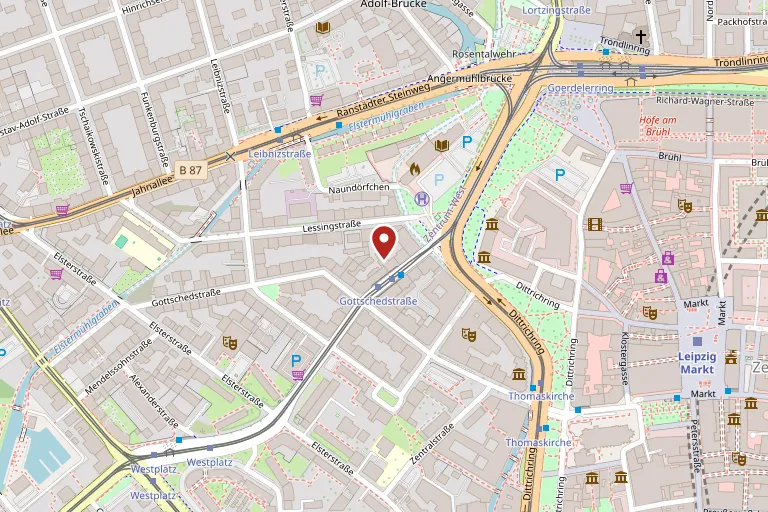
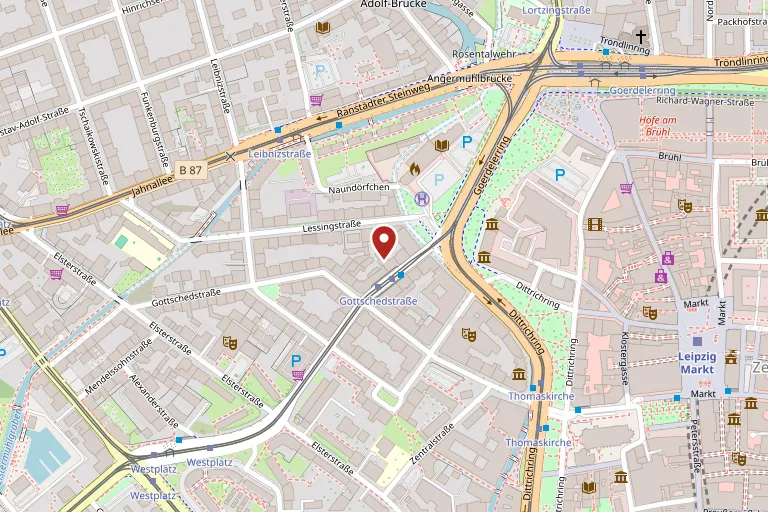
Museum in der Runden Ecke: oeffentliche Fuehrungen — Preis entfernt (Recherchekorrektur)
Die offizielle Seite (Abruf 30.07.2026, id=230) weist oeffentliche
Fuehrungen als "momentan nicht moeglich" aus; der zuvor genannte Festpreis
7,50 € / 6,00 € ist damit nicht mehr belegt. Ersetzt durch belegten Hinweis
(Gruppenfuehrungen nach Voranmeldung, aktuelle Konditionen beim Traeger),
QUELLEN.md und nichtBelegt entsprechend nachgezogen. Karte neu gerendert.

Pruefer check-site.mjs: GRUEN, Exit 0, 0 Verstoesse (axe-core WCAG 2.2 AA).

diff --git a/museum-in-der-runden-ecke-d9610d581fdb44aa/index.html b/museum-in-der-runden-ecke-d9610d581fdb44aa/index.html
@@ -354,7 +354,7 @@
       
       <li>Der Eintritt schließt den Audioguide ein.</li>
       
-      <li>Öffentliche Führungen: 7,50 € / ermäßigt 6,00 €.</li>
+      <li>Führungen für Gruppen sind nach Voranmeldung möglich; öffentliche Führungen sind derzeit nicht möglich. Die aktuellen Konditionen erfragen Sie bitte beim Bürgerkomitee Leipzig.</li>
       
     </ul>
     

diff --git a/museum-in-der-runden-ecke-d9610d581fdb44aa/QUELLEN.md b/museum-in-der-runden-ecke-d9610d581fdb44aa/QUELLEN.md
@@ -9,7 +9,7 @@ steht nicht auf der Seite. Erzeugt mit nx7-site-static 0.1.0, Theme `hell`.
 - URL: https://www.runde-ecke-leipzig.de/index.php?id=230
 - abgerufen: 2026-07-30
 
-## Eintritt: Erwachsene 5,00 €, ermäßigt 4,00 € inklusive Audioguide; öffentliche Führungen 7,50 € / 6,00 €
+## Eintritt: Erwachsene 5,00 €, ermäßigt 4,00 € inklusive Audioguide; öffentliche Führungen derzeit nicht möglich, Gruppenführungen nach Voranmeldung
 
 - Quelle: Bürgerkomitee Leipzig e. V., Seiten „Öffnungszeiten“ und „Startseite“
 - URL: https://www.runde-ecke-leipzig.de/index.php?id=230
@@ -66,3 +66,4 @@ Folgende Angaben ließen sich nicht belegen und stehen deshalb **nicht** auf der
 - Umsatzsteuer-Identifikationsnummer — im Impressum nicht angegeben, daher ausgelassen.
 - Anzahl der Audioguide-Sprachen — die Angaben schwanken (acht bzw. zehn Sprachen), daher ohne Zahl genannt.
 - Barrierefreiheit des Gebäudes selbst (Zugänge, Aufzug) — dazu fand sich keine belastbare Angabe; die Erklärung zur Barrierefreiheit bezieht sich ausschließlich auf diese Website.
+- Preis öffentlicher Führungen — laut offizieller Seite (Abruf 30.07.2026) derzeit nicht möglich, daher keine Preisangabe; Gruppenführungen nur nach Voranmeldung.
